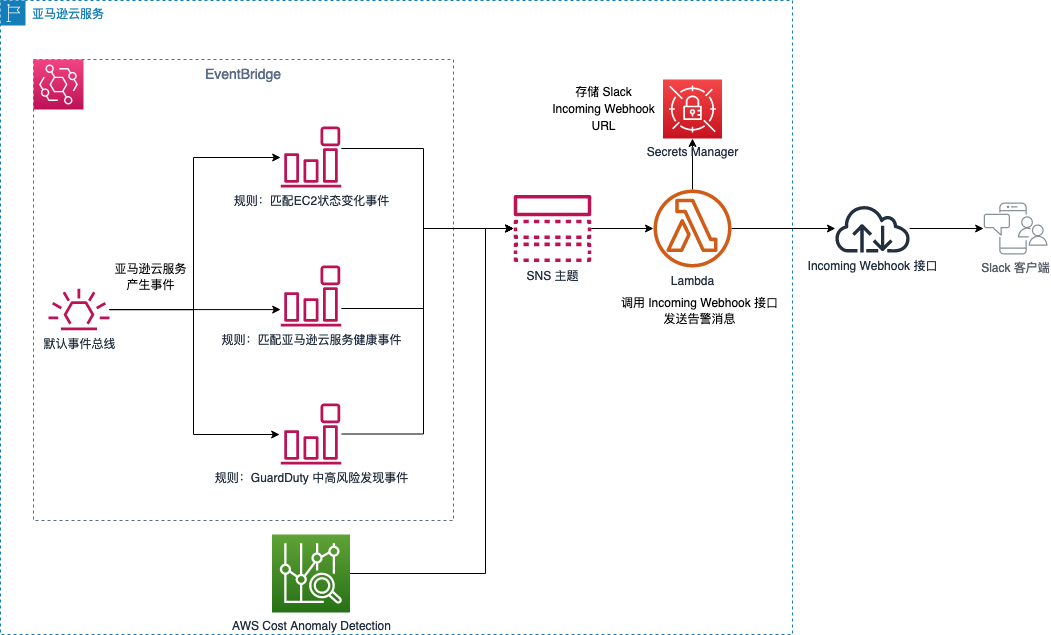
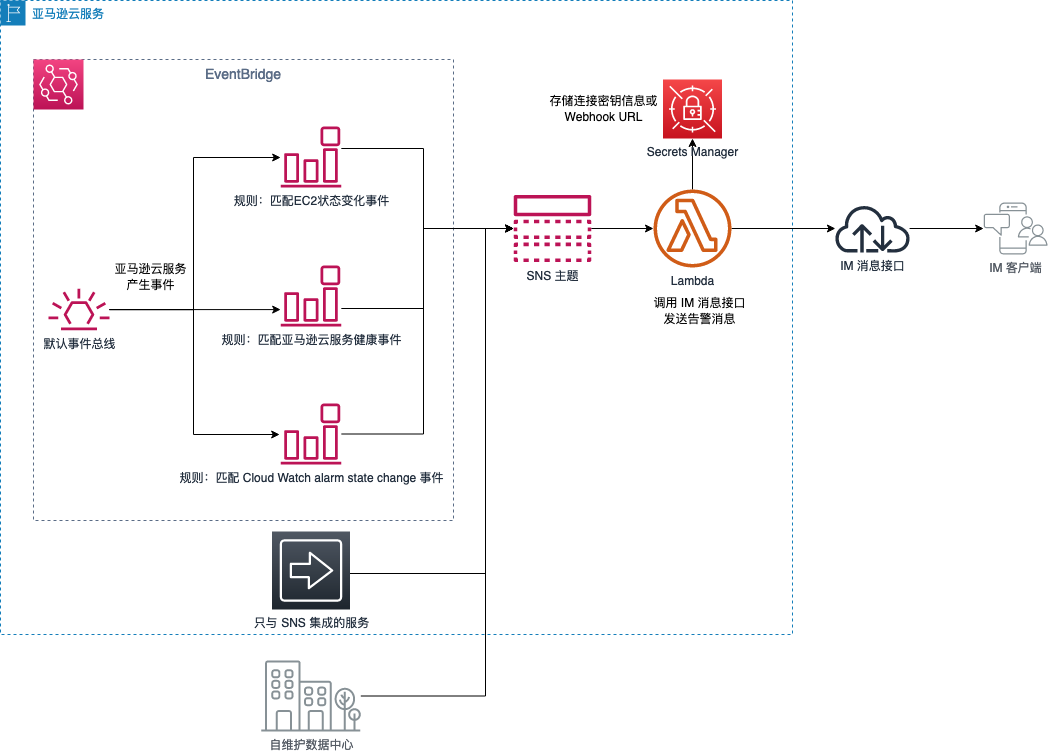
Update Readme.

diff --git a/README.md b/README.md
@@ -48,6 +48,11 @@ Slack Incoming WebHook 纯文本警告推送功能实现。
 2022-11-2:
 添加 Amazon GuardDuty 集成。
 
+2023-02-28:
+1. 转换 AWS 服务接入方式为插件模式，插件项目请参见[项目: AWS-Lambda-notifier-plugin](https://github.com/Chris-wa-He/AWS-Lambda-notifier-plugin)
+2. 添加 Cloud Watch alarm state change 作为默认规则
+3. 移除 AWS Cost Anomaly Detection & Amazon GuardDuty 集成，实现转移至[项目: AWS-Lambda-notifier-plugin](https://github.com/Chris-wa-He/AWS-Lambda-notifier-plugin)
+
 ## 附录
 
 [AWS博客：基于AWS Serverless 一键启用微信/钉钉告警通知
